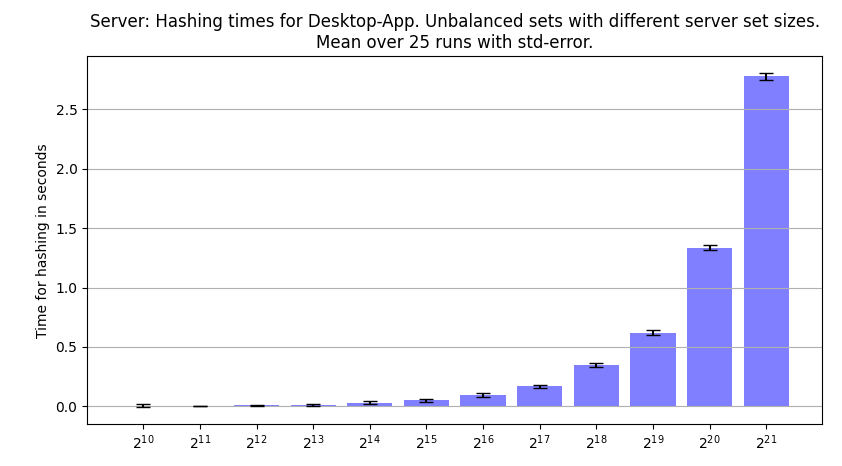
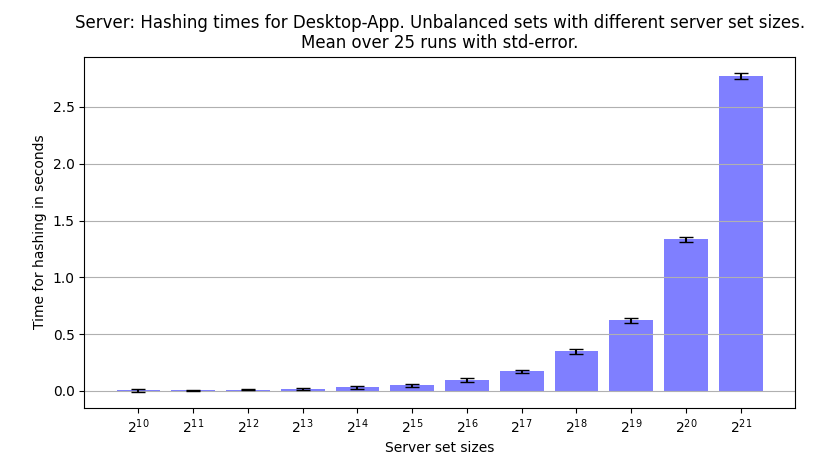
time_total, time_abyonline for unbalanced runs, fixed hash text

diff --git a/plot_unbalanced.py b/plot_unbalanced.py
@@ -24,9 +24,9 @@ def plot_hashing(data):
     ax.set_xticks(x_pos)
     ax.set_xticklabels(xticks_to_potencies_label(set_sizes))
     ax.set_title(
-        f"Server: Hashing times for Desktop-App. Unbalanced sets with different server set sizes.\nMean over 25 runs with std-error.")
+        f"Server: Hashing times for Desktop-App. Unbalanced sets with different server set sizes.\nMean over {len(data[0])-1} runs with std-error.")
     ax.yaxis.grid(True)
-
+    ax.set_xlabel(f"Server set sizes")
     plt.tight_layout()
     plt.show()
 
@@ -45,7 +45,7 @@ def plot_poly_size(data):
     ax.set_title(
         "Polynomials transmitted for Desktop-App for different set sizes. With std-error.")
     ax.yaxis.grid(True)
-
+    ax.set_xlabel(f"Server set sizes")
     # ax.legend((server[0]), ('server'))
 
     plt.tight_layout()
@@ -55,22 +55,44 @@ def plot_total_time(data):
     set_sizes, server_means, server_stds, client_means, client_stds = get_s_c_mean_std(
         data, "total_t")
     x_pos = np.arange(len(set_sizes))
+    client_means = client_means/1e3
+    client_stds = client_stds/1e3
     fig, ax = plt.subplots()
-    server = ax.bar(x_pos-0.1, server_means, yerr=server_stds, width=0.2, color='b', align='center', alpha=0.5,
-           ecolor='black', capsize=10) 
-    client = ax.bar(x_pos+0.1, client_means, yerr=client_stds, width=0.2, color='g', align='center', alpha=0.5,
-           ecolor='black', capsize=10)
-    ax.set_ylabel(f"Total time in in ms")
+    client = ax.bar(x_pos, client_means, yerr=client_stds, color='g', align='center', alpha=0.5,
+           ecolor='black', capsize=5)
+    ax.set_ylabel(f"Total time in in seconds")
     ax.set_xticks(x_pos)
-    ax.set_xticklabels(set_sizes)
-    ax.set_title("Total time for Desktop-App for different set sizes. With std-error.")
+    ax.set_xticklabels(xticks_to_potencies_label(set_sizes))
+    ax.set_title(
+        f"Total time for Desktop-App with the basic analytics circuit.\nUnbalanced sets with client set size $2^{{{int(np.log2(data[0]['parameters']['client_neles']))}}}$\nMean over {len(data[0])-1} runs with std-error.")
     ax.yaxis.grid(True)
-
-    ax.legend((server[0], client[0]),('server', 'client'))
+    ax.set_xlabel(f"Server set sizes")
+    # ax.legend((server[0], client[0]),('server', 'client'))
 
     plt.tight_layout()
     plt.show()
 
+
+def plot_total_time_absum(data):
+    set_sizes, server_means, server_stds, client_means, client_stds = get_s_c_mean_std(
+        data, "total_t")
+    x_pos = np.arange(len(set_sizes))
+    client_means = client_means/1e3
+    client_stds = client_stds/1e3
+    fig, ax = plt.subplots()
+    client = ax.bar(x_pos, client_means, yerr=client_stds, color='g', align='center', alpha=0.5,
+                    ecolor='black', capsize=5)
+    ax.set_ylabel(f"Total time in in seconds")
+    ax.set_xticks(x_pos)
+    ax.set_xticklabels(xticks_to_potencies_label(set_sizes))
+    ax.set_title(
+        f"Total time for Desktop-App with the PayloadABSum circuit.\nUnbalanced sets with client set size $2^{{{int(np.log2(data[0]['parameters']['client_neles']))}}}$\nMean over {len(data[0])-1} runs with std-error.")
+    ax.yaxis.grid(True)
+    ax.set_xlabel(f"Server set sizes")
+    # ax.legend((server[0], client[0]),('server', 'client'))
+
+    plt.tight_layout()
+    plt.show()
 
 def plot_total_data_stacked_combined(data10,data12):
     set_sizes_10, server_r_means_10, server_r_stds_10, client_r_means_10, client_r_stds_10 = get_s_c_mean_std(
@@ -153,6 +175,41 @@ def plot_total_data_stacked(data):
     plt.tight_layout()
     plt.show()
 
+
+def plot_total_data_absum_stacked(data):
+    set_sizes, server_r_means, server_r_stds, client_r_means, client_r_stds = get_s_c_mean_std(
+        data, "total_d_rs", rs='r')
+    set_sizes, server_s_means, server_s_stds, client_s_means, client_s_stds = get_s_c_mean_std(
+        data, "total_d_rs", rs='s')
+    x_pos = np.arange(len(set_sizes))
+    fig, ax = plt.subplots()
+    client_r_means = client_r_means/1e6
+    client_s_means = client_s_means/1e6
+    # print(f"mean: {client_r_means[0]} single: {data[]}")
+    # client_r_stds = client_r_stds/1e9
+    # client_s_stds = client_s_stds/1e9
+
+    # Add a table at the bottom of the axes
+    client_r = ax.bar(x_pos, client_r_means, 
+                      color='b', align='center', alpha=0.5)
+    client_s = ax.bar(x_pos, client_s_means,  color='g',
+                      align='center', alpha=0.5, bottom=client_r_means)
+    ax.set_ylabel(f"Total data in in MegaBytes")
+
+    ax.set_xticks(x_pos)
+    potencies = [int(np.log2(x)) for x in set_sizes]
+    ax.set_xticklabels([f"$2^{{{p}}}$" for p in potencies])
+
+    ax.set_xlabel(f"Server set sizes")
+    ax.set_title(
+        f"Client: Total data received/sent for Desktop-App.\nPayloadABSum circuit. Unbalanced sets with client set size $2^{{{int(np.log2(data[0]['parameters']['client_neles']))}}}$")
+    ax.yaxis.grid(True)
+
+    ax.legend((client_r[0], client_s[0]), ('client received', 'client sent'))
+
+    plt.tight_layout()
+    plt.show()
+
 def plot_total_data(data):
     set_sizes, server_r_means, server_r_stds, client_r_means, client_r_stds = get_s_c_mean_std(
         data, "total_d_rs", rs='r')
@@ -211,12 +268,47 @@ def plot_aby_time(data, online_only=True ,role=CLIENT):
             "Aby timings for different set sizes. With std-error."
         )
     ax.yaxis.grid(True)
-
+    ax.set_xlabel(f"Server set sizes")
     if not online_only:
         ax.legend((setup[0], online[0]), ('Setup-phase', 'Online-phase'))
 
     plt.tight_layout()
     plt.show()
+
+
+def plot_aby_time_absum(data, online_only=True, role=CLIENT):
+    set_sizes, _, _, online_means, online_stds = get_s_c_mean_std(
+        data, "aby_online_t")
+    if not online_only:
+        set_sizes, _, _, setup_means, setup_stds = get_s_c_mean_std(
+            data, "aby_setup_t")
+    # set_sizes, _, _, total_means, total_stds = get_s_c_mean_std(
+    #     data, "aby_total_t")
+    x_pos = np.arange(len(set_sizes))
+    fig, ax = plt.subplots()
+    online = ax.bar(x_pos, online_means, yerr=online_stds, width=0.2, color='g', align='center', alpha=0.5,
+                    ecolor='black', capsize=10)
+    if not online_only:
+        setup = ax.bar(x_pos, setup_means, yerr=setup_stds, width=0.2, color='b', align='center', alpha=0.5,
+                       ecolor='black', capsize=10, bottom=online)
+    ax.set_ylabel(f"Time in in ms")
+    ax.set_xticks(x_pos)
+    ax.set_xticklabels(xticks_to_potencies_label(set_sizes))
+    if online_only:
+        ax.set_title(
+           f"Aby online phase times for PayloadABSum circuit.\nUnbalanced sets with client set size $2^{{{int(np.log2(data[0]['parameters']['client_neles']))}}}$")
+    else:
+        ax.set_title(
+            "Aby setup/online phase times for PayloadABSum circuit.\nUnbalanced sets with client set size $2^{{{int(np.log2(data[0]['parameters']['client_neles']))}}}$"
+        )
+    ax.yaxis.grid(True)
+    ax.set_xlabel(f"Server set sizes")
+    if not online_only:
+        ax.legend((setup[0], online[0]), ('Setup-phase', 'Online-phase'))
+
+    plt.tight_layout()
+    plt.show()
+
 
 def plot_time_pies(data, combined=False):
     # for each !OR FOR ONE DEPENDING ON COMBINED!
@@ -238,7 +330,8 @@ def plot_time_pies(data, combined=False):
         'poly_t': 0.0,
         'aby_online_t': 0.0,
         'aby_setup_t': 0.0,
-        'base_t': 0.0,
+        'aby_baseot_t': 0.0,
+        # 'base_t': 0.0,
         'other_t': 0.0
     }
     pct_server = {
@@ -248,7 +341,8 @@ def plot_time_pies(data, combined=False):
         'poly_t': 0.0,
         'aby_online_t': 0.0,
         'aby_setup_t': 0.0,
-        'base_t' : 0.0,
+        'aby_baseot_t': 0.0,
+        # 'base_t' : 0.0,
         'other_t': 0.0
     }
     for b in batches:
@@ -259,8 +353,9 @@ def plot_time_pies(data, combined=False):
             'poly_t': 0,
             'aby_online_t': 0,
             'aby_setup_t': 0,
-            'total_t': 0,
-            'nobase_t': 0
+            'aby_baseot_t': 0,
+            # 'nobase_t': 0,
+            'total_t': 0
         }
         server = {
             'hashing_t': 0,
@@ -269,10 +364,10 @@ def plot_time_pies(data, combined=False):
             'poly_t': 0,
             'aby_online_t': 0,
             'aby_setup_t': 0,
-            'total_t' : 0,
-            'nobase_t': 0
+            'aby_baseot_t': 0,
+            # 'nobase_t': 0,
+            'total_t' : 0
         }
-        
         # sum up 
         for i in range(len(b)-1):
             for k in client:
@@ -280,10 +375,10 @@ def plot_time_pies(data, combined=False):
             for k in server:
                 server[k] += b[i]['s_output'][k]
 
-        client['base_t'] = client['total_t'] - client['nobase_t']
-        server['base_t'] = server['total_t'] - server['nobase_t']
-        del client['nobase_t']
-        del server['nobase_t']
+        # client['base_t'] = client['total_t'] - client['nobase_t']
+        # server['base_t'] = server['total_t'] - server['nobase_t']
+        # del client['nobase_t']
+        # del server['nobase_t']
 
         # get average
         for k in client:
@@ -292,13 +387,16 @@ def plot_time_pies(data, combined=False):
         for k in server:
             server[k] = float(server[k])/(len(b)-1.0)
         
-        print(server)
         # client poly trans wait is mostly waiting for the server to begin.
         client['poly_trans_t'] = server['poly_trans_t']
-        
+        deb_total = client['total_t']
+        print(f"total: {deb_total}")
         # other
         c_other = 2*client['total_t'] 
         for k in client:
+            if k != 'total_t':
+                deb_total -= client[k]
+                print(f"total - {k}:{client[k]} = {deb_total}")
             c_other -= client[k]
         client['other_t'] = c_other
 
@@ -402,7 +500,7 @@ if __name__ == '__main__':
     ap.add_argument('--ten', action='store_true')
     ap.add_argument('--twelve', action='store_true')
     ap.add_argument('--both', action='store_true')
-
+    ap.add_argument('--absum', action='store_true')
     ap.add_argument('--hash', action='store_true')
     ap.add_argument('--poly_d', action='store_true')
     ap.add_argument('--total_t', action='store_true')
@@ -418,6 +516,14 @@ if __name__ == '__main__':
         data12 = load_batch("Unbalanced12AnalyticsDA_1")
         if args.all or args.total_d_stacked:
             plot_total_data_stacked_combined(data10,data12)
+    elif args.absum:
+        data = load_batch("Unbalanced10PayloadABSumDA_1")
+        if args.all or args.total_d_stacked:
+            plot_total_data_absum_stacked(data)
+        if args.all or args.total_t:
+            plot_total_time_absum(data)
+        if args.all or args.aby_t:
+            plot_aby_time_absum(data)
     else:
         if args.ten:
             batch_name = "Unbalanced10AnalyticsDA_2"
